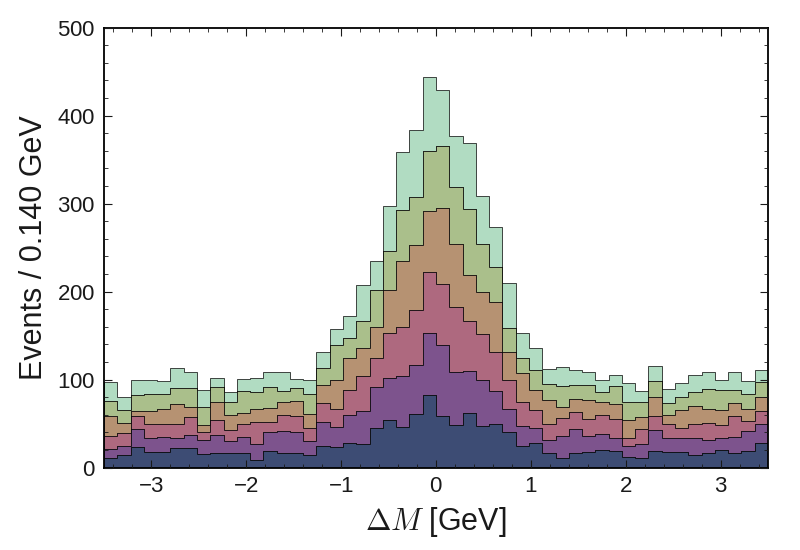
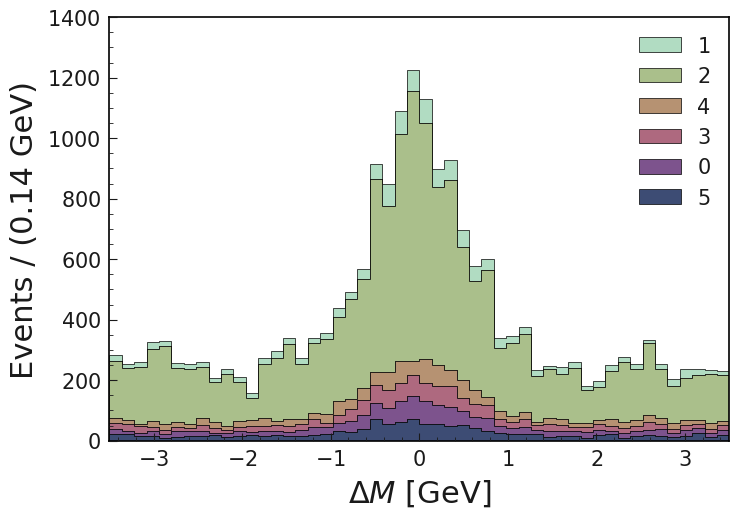
allow for different scale for stacked histo

Changed region(s): [[0.0, 0.0, 0.9959, 0.8958], [0.4668, 0.9266, 0.6847, 0.9884], [0.5291, 0.8649, 0.5913, 0.8958]]

diff --git a/src/b2plot/correlations.py b/src/b2plot/correlations.py
@@ -14,7 +14,7 @@ import pandas as pd
 import seaborn as sns
 
 
-def flat_correlation(x,y, nbins='auto', zoom=1, nlabels=5, ax=None, ax_fmt='%.2e', x_label_rot=45, invert_y=True, draw_labels=True, get_im=False):
+def float_correlation(x,y, nbins='auto', zoom=1, nlabels=5, ax=None, ax_fmt='%.2e', x_label_rot=45, invert_y=True, draw_labels=True, get_im=False):
     """ Calculate and plot a 2D correlation in flat binning.
     This function calculates an equal frequency binning for x and y and fills a 2D histogram with this binning.
     Thus each slice in x and y contains the same number of entries for continuus distributions.
@@ -258,7 +258,7 @@ def corrmatrix(corr, separate_first=0, x_label_rot=45, invert_y=True, label_font
         plt.axvline(separate_first, color='gray',lw=1)
 
 
-def flat_corr_matrix(df, pdf=None, tight=False, col_numbers=False, labels=None, labelsize=14, size=12, n_labels=3, 
+def float_corr_matrix(df, pdf=None, tight=False, col_numbers=False, labels=None, labelsize=14, size=12, n_labels=3, 
                      fontsize=22, draw_cbar=False,  tick_label_rotation=45, formatter='%.2e',label_rotatation=None):
     """ Draws a flat correlation matrix of df
 

diff --git a/src/b2plot/histogram.py b/src/b2plot/histogram.py
@@ -198,12 +198,15 @@ def stacked(df, col=None, by=None, bins=None, color=None, range=None, lw=.5, ax=
 
     if weights is None:
         weights = []
-        for d in data:
+        for i,d in enumerate(data):
             wei = np.ones(len(d))
             if scale is not None:
                 if isinstance(scale, int) or isinstance(scale, float):
                     if not isinstance(scale, bool):
                         wei *= scale
+                elif isinstance(scale, list):
+                    assert len(scale)!=len(data), "Scale list must have same lenght as data'
+                    wei *= scale[i]
                 else:
                     print("Please provide int or float with scale")
             weights.append(wei)

diff --git a/examples/stacked_plot.py b/examples/stacked_plot.py
@@ -26,7 +26,8 @@ df['exp'] = np.random.randint(0, 6, ns+nb)
 df = pd.DataFrame(df)
 
 # Automatic creation of a stacked plot of 'mass' split by values of 'exp'
-bp.stacked(df, col="mass", by='exp', bins=50,)
+bp.stacked(df, col="mass", by='exp', bins=50, scale=[1,1,1,1,10,1])
+plt.legend()
 
 bp.xlim()
 bp.labels('$\Delta M$', "Events", "GeV", 0)
